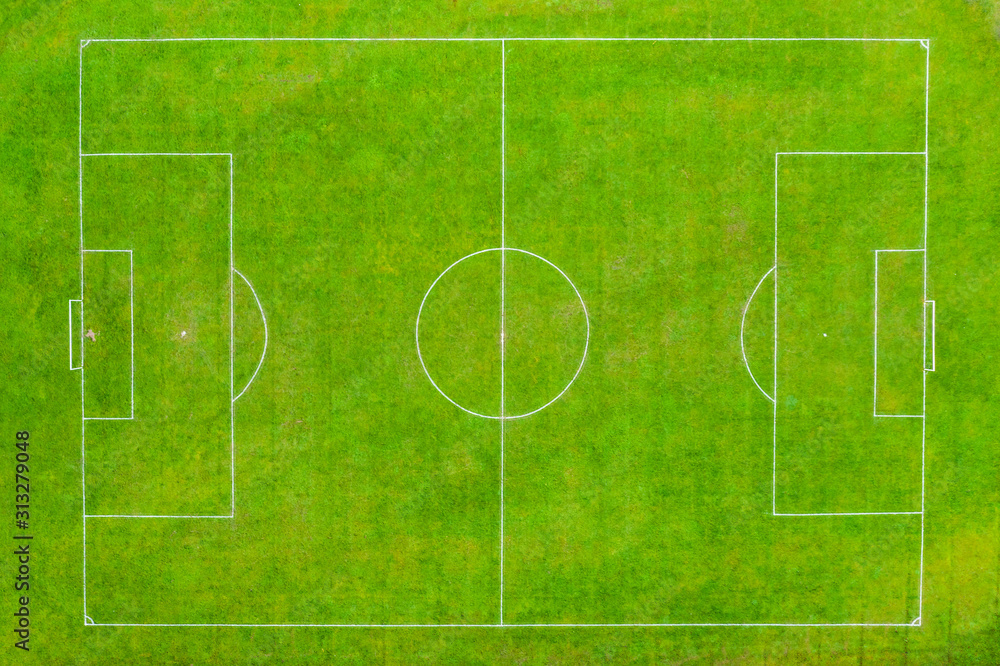
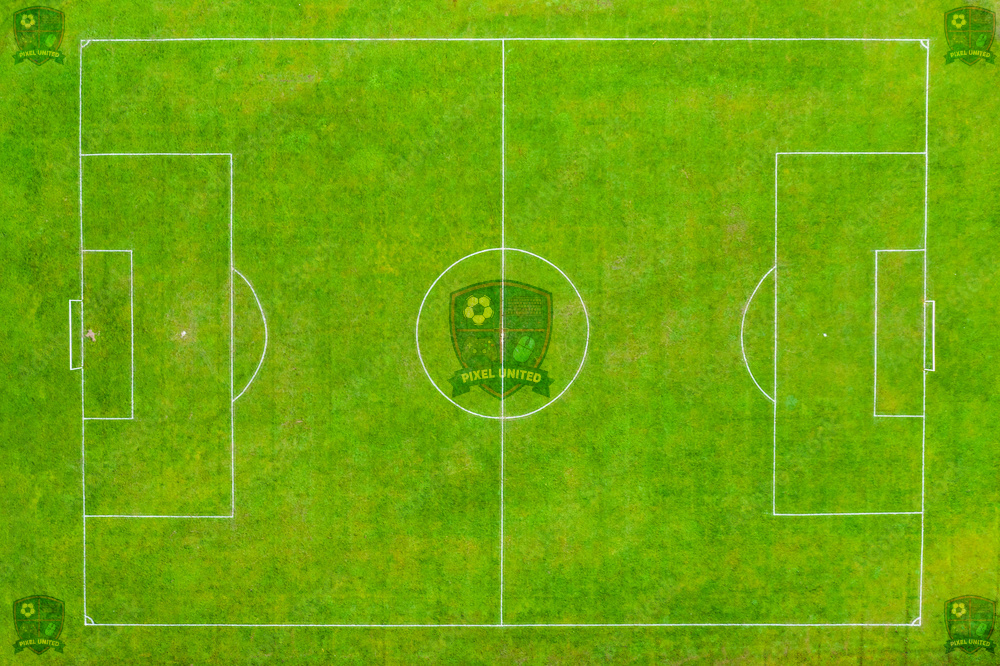
branding

diff --git a/builder.html b/builder.html
@@ -1,26 +1,26 @@
-afc\builder.html -->
 <!DOCTYPE html>
 <html lang="pl">
 <head>
     <meta charset="UTF-8">
     <meta name="viewport" content="width=device-width, initial-scale=1.0">
-    <title>OKS Tablice - Zbuduj</title>
+    <title>Pixel United Tablice</title>
     <link rel="stylesheet" href="https://cdn.jsdelivr.net/npm/bootstrap@5.3.0/dist/css/bootstrap.min.css">
     <link rel="stylesheet" href="css/styles.css">
     <link rel="stylesheet" href="https://cdn.jsdelivr.net/npm/bootstrap-icons@1.11.0/font/bootstrap-icons.css">
+    <link rel="icon" type="image/png" href="img/PXU.png">
 </head>
 <body>
     <!-- Full-width Navigation Bar -->
     <nav class="navbar navbar-expand-lg navbar-dark bg-dark w-100">
         <div class="container-fluid">
-            <a class="navbar-brand" href="#">OKS Tablice Taktyczne</a>
+            <a class="navbar-brand" href="#">Pixel United</a>
             <button class="navbar-toggler" type="button" data-bs-toggle="collapse" data-bs-target="#navbarNav">
                 <span class="navbar-toggler-icon"></span>
             </button>
             <div class="collapse navbar-collapse" id="navbarNav">
                 <ul class="navbar-nav">
                     <li class="nav-item">
-                        <a class="nav-link" href="index.html">Menu</a>
+                        <a class="nav-link" href="index.html">Główna</a>
                     </li>
                     <li class="nav-item">
                         <a class="nav-link" href="plays.html">Zagrywki</a>
@@ -28,9 +28,7 @@ afc\builder.html -->
                     <li class="nav-item">
                         <a class="nav-link active" href="builder.html">Zbuduj</a>
                     </li>
-                    <li class="nav-item">
-                        <a class="nav-link" href="#">Formacje</a>
-                    </li>
+
                 </ul>
             </div>
         </div>

diff --git a/plays.html b/plays.html
@@ -1,25 +1,25 @@
-eafc\plays.html -->
 <!DOCTYPE html>
 <html lang="pl">
 <head>
     <meta charset="UTF-8">
     <meta name="viewport" content="width=device-width, initial-scale=1.0">
-    <title>OKS Tablice - Zagrywki</title>
+    <title>Pixel United Tablice</title>
     <link rel="stylesheet" href="https://cdn.jsdelivr.net/npm/bootstrap@5.3.0/dist/css/bootstrap.min.css">
     <link rel="stylesheet" href="css/styles.css">
+    <link rel="icon" type="image/png" href="img/PXU.png">
 </head>
 <body>
     <!-- Full-width Navigation Bar -->
     <nav class="navbar navbar-expand-lg navbar-dark bg-dark w-100">
         <div class="container-fluid">
-            <a class="navbar-brand" href="#">OKS Tablice Taktyczne</a>
+            <a class="navbar-brand" href="#">Pixel United</a>
             <button class="navbar-toggler" type="button" data-bs-toggle="collapse" data-bs-target="#navbarNav">
                 <span class="navbar-toggler-icon"></span>
             </button>
             <div class="collapse navbar-collapse" id="navbarNav">
                 <ul class="navbar-nav">
                     <li class="nav-item">
-                        <a class="nav-link" href="index.html">Menu</a>
+                        <a class="nav-link" href="index.html">Główna</a>
                     </li>
                     <li class="nav-item">
                         <a class="nav-link active" href="plays.html">Zagrywki</a>
@@ -27,9 +27,7 @@ eafc\plays.html -->
                     <li class="nav-item">
                         <a class="nav-link" href="builder.html">Zbuduj</a>
                     </li>
-                    <li class="nav-item">
-                        <a class="nav-link" href="#">Formacje</a>
-                    </li>
+
                 </ul>
             </div>
         </div>

diff --git a/index.html b/index.html
@@ -3,22 +3,23 @@
 <head>
     <meta charset="UTF-8">
     <meta name="viewport" content="width=device-width, initial-scale=1.0">
-    <title>OKS Tablice</title>
+    <title>Pixel United Tablice</title>
     <link rel="stylesheet" href="https://cdn.jsdelivr.net/npm/bootstrap@5.3.0/dist/css/bootstrap.min.css">
     <link rel="stylesheet" href="css/styles.css">
+    <link rel="icon" type="image/png" href="img/PXU.png">
 </head>
 <body>
     <!-- Full-width Navigation Bar -->
     <nav class="navbar navbar-expand-lg navbar-dark bg-dark w-100">
         <div class="container-fluid">
-            <a class="navbar-brand" href="#">OKS Tablice Taktyczne</a>
+            <a class="navbar-brand" href="#">Pixel United</a>
             <button class="navbar-toggler" type="button" data-bs-toggle="collapse" data-bs-target="#navbarNav">
                 <span class="navbar-toggler-icon"></span>
             </button>
             <div class="collapse navbar-collapse" id="navbarNav">
                 <ul class="navbar-nav">
                     <li class="nav-item">
-                        <a class="nav-link active" href="index.html">Menu</a>
+                        <a class="nav-link active" href="index.html">Główna</a>
                     </li>
                     <li class="nav-item">
                         <a class="nav-link" href="plays.html">Zagrywki</a>

diff --git a/js/tactics.js b/js/tactics.js
@@ -188,9 +188,9 @@ const formations = {
         player7: { left: '60%', top: '50%' },
         player8: { left: '80%', top: '60%' },
 
-        player9: { left: '20%', top: '30%' },
-        player10: { left: '50%', top: '20%' },
-        player11: { left: '80%', top: '30%' }
+        player9: { left: '40%', top: '20%' },
+        player10: { left: '50%', top: '35%' },
+        player11: { left: '60%', top: '20%' }
     },
     attack: {
         player1: { left: '50%', top: '90%' },
@@ -204,9 +204,9 @@ const formations = {
         player7: { left: '60%', top: '45%' },
         player8: { left: '80%', top: '35%' },
 
-        player9: { left: '35%', top: '20%' },
-        player10: { left: '50%', top: '15%' },
-        player11: { left: '65%', top: '20%' }
+        player9: { left: '40%', top: '20%' },
+        player10: { left: '50%', top: '35%' },
+        player11: { left: '60%', top: '20%' }
     }
 };
 

diff --git a/css/styles.css b/css/styles.css
@@ -3,6 +3,7 @@ body {
     min-height: 100vh;
     display: block;
     overflow-x: hidden;
+    background-color: #3a3a3a;
 }
 
 /* Navigation styling - force small height */
@@ -83,7 +84,7 @@ body {
     left: 0;
     width: 100%;
     height: 100%;
-    background-image: url('../img/pitch.jpg');
+    background-image: url('../img/pitch.png');
     background-size: contain; /* Changed from cover to contain */
     background-position: center;
     background-repeat: no-repeat;
